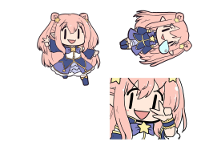
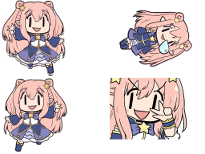
左右移動に合わせてsprite変更

Changed region(s): [[0.0, 0.0, 0.4976, 0.987]]

diff --git a/js/game.js b/js/game.js
@@ -84,28 +84,33 @@ window.onload = function(){
 	}
 
 	const player = {
-		sX: 35,
-		sY: 10,
+		animation : [
+			{sX: 0, sY: 0}, //this.animation[0]
+			{sX: 0, sY: 77}, //this.animation[1]
+		],
+
 		x: 50,
 		y : 150,
-		w: 70,
-		h: 80,
+		w: 67,
+		h: 77,
 		oldx : 0,
 
+		frame: 0,
+
 		draw: function() {
+			let player = this.animation[this.frame];
 
 			ctx.save();
 			ctx.translate(this.x, fg.y);
-			ctx.drawImage(hatsne, this.sX, this.sY, this.w, this.h, - this.w/2, - this.h, this.w, this.h);
-		
+			ctx.drawImage(hatsne, player.sX, player.sY, this.w, this.h, - this.w/2, - this.h, this.w, this.h);
 			ctx.restore();
 		},
 		move: function(e) {
 			var x = e.x;
 			if(x > this.oldx) {
-				console.log("right")
+				this.frame = 0;
 			} else if(x < this.oldx) {
-				console.log("left")
+				this.frame = 1;
 			}
 			console.log(this.x)
 			this.oldx =x
